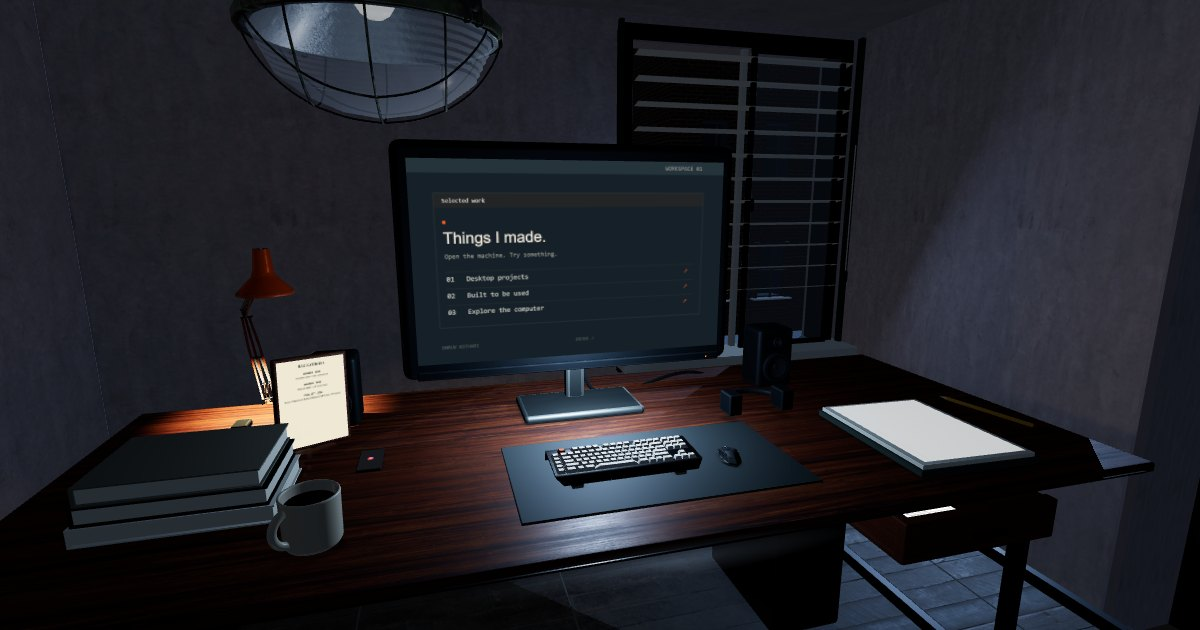
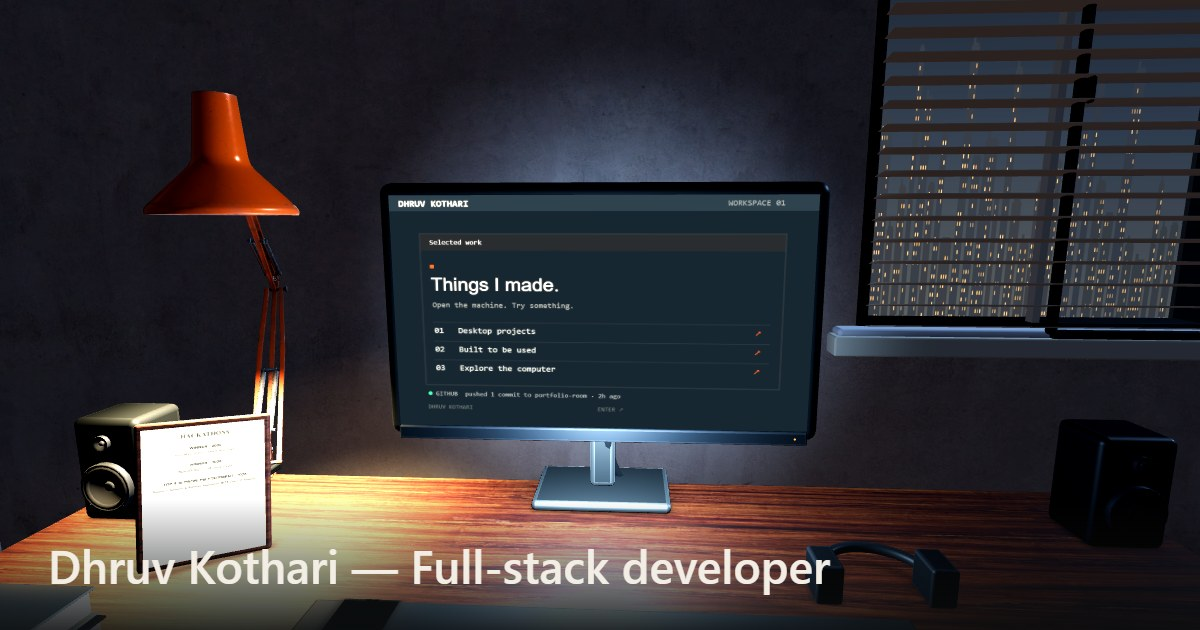
feat: regenerate og.jpg from the current lamp-lit room

diff --git a/index.html b/index.html
@@ -28,7 +28,7 @@
     <meta property="og:image" content="%VITE_SITE_URL%/og.jpg" />
     <meta property="og:image:width" content="1200" />
     <meta property="og:image:height" content="630" />
-    <meta property="og:image:alt" content="A desk with a monitor, lamp and phone in a dark room at night" />
+    <meta property="og:image:alt" content="A lamp-lit desk at night with a monitor showing selected work, headphones and a framed hackathon award, captioned Dhruv Kothari — Full-stack developer" />
     <meta name="twitter:card" content="summary_large_image" />
     <meta name="twitter:image" content="%VITE_SITE_URL%/og.jpg" />
 
